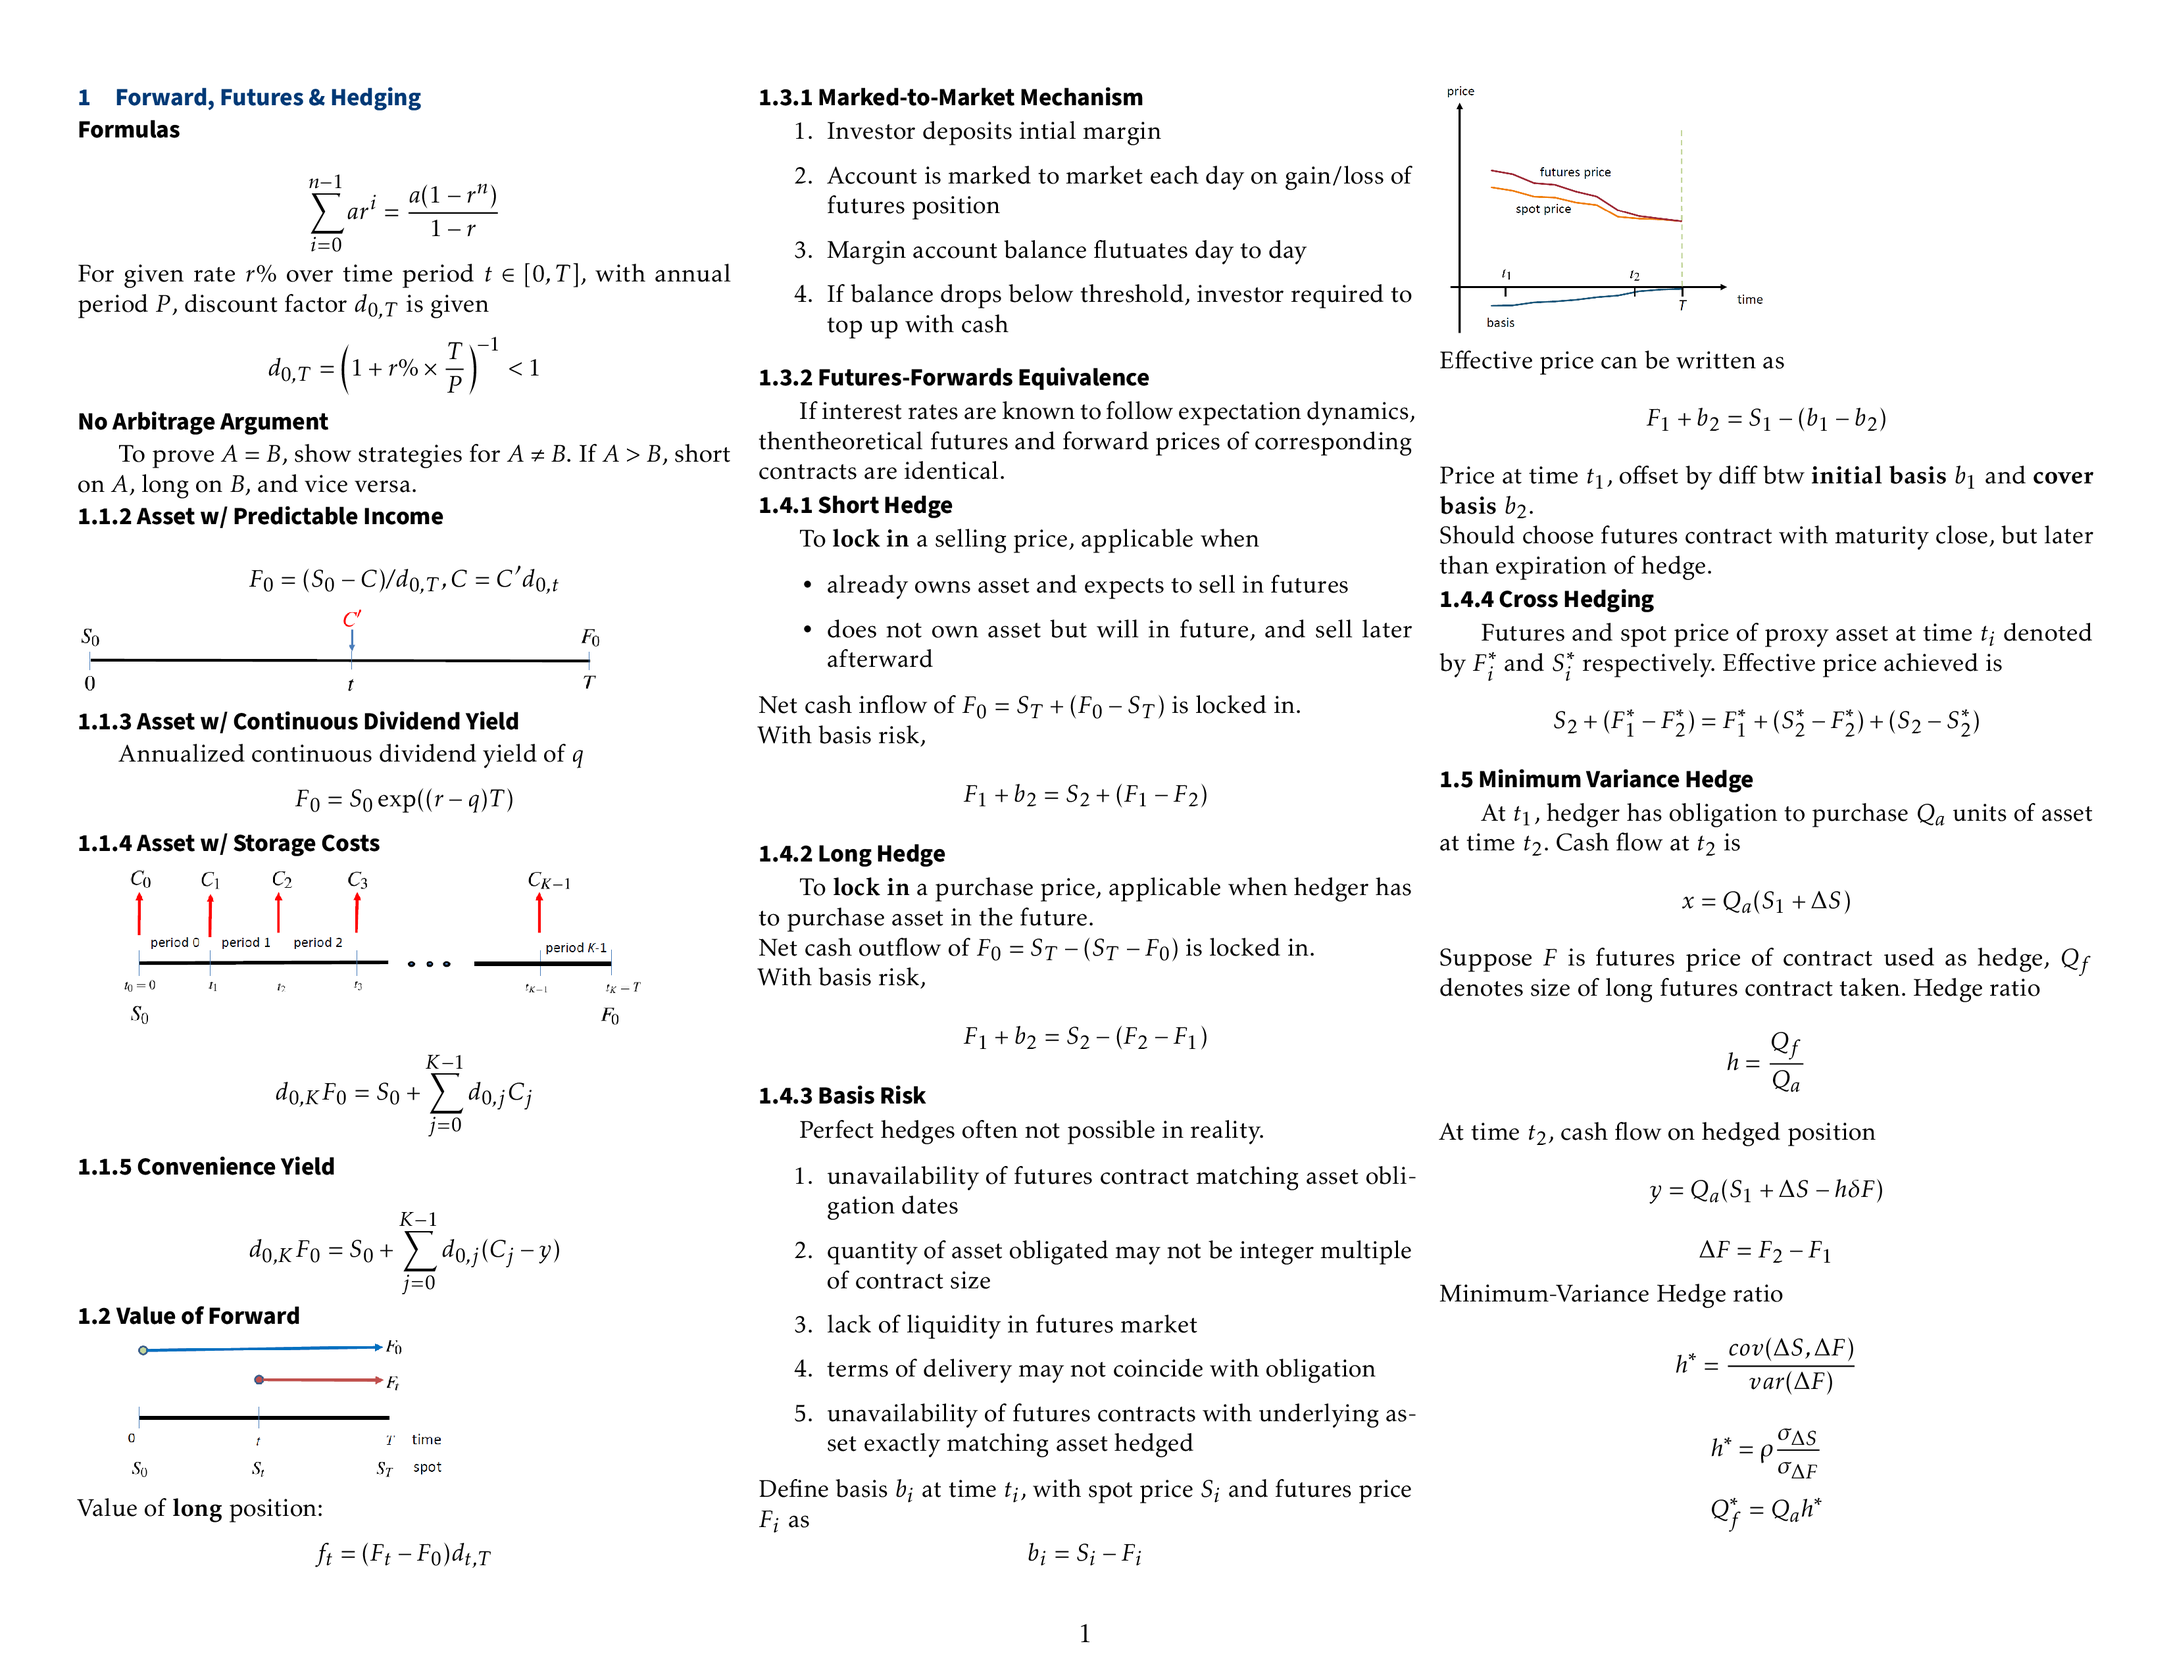
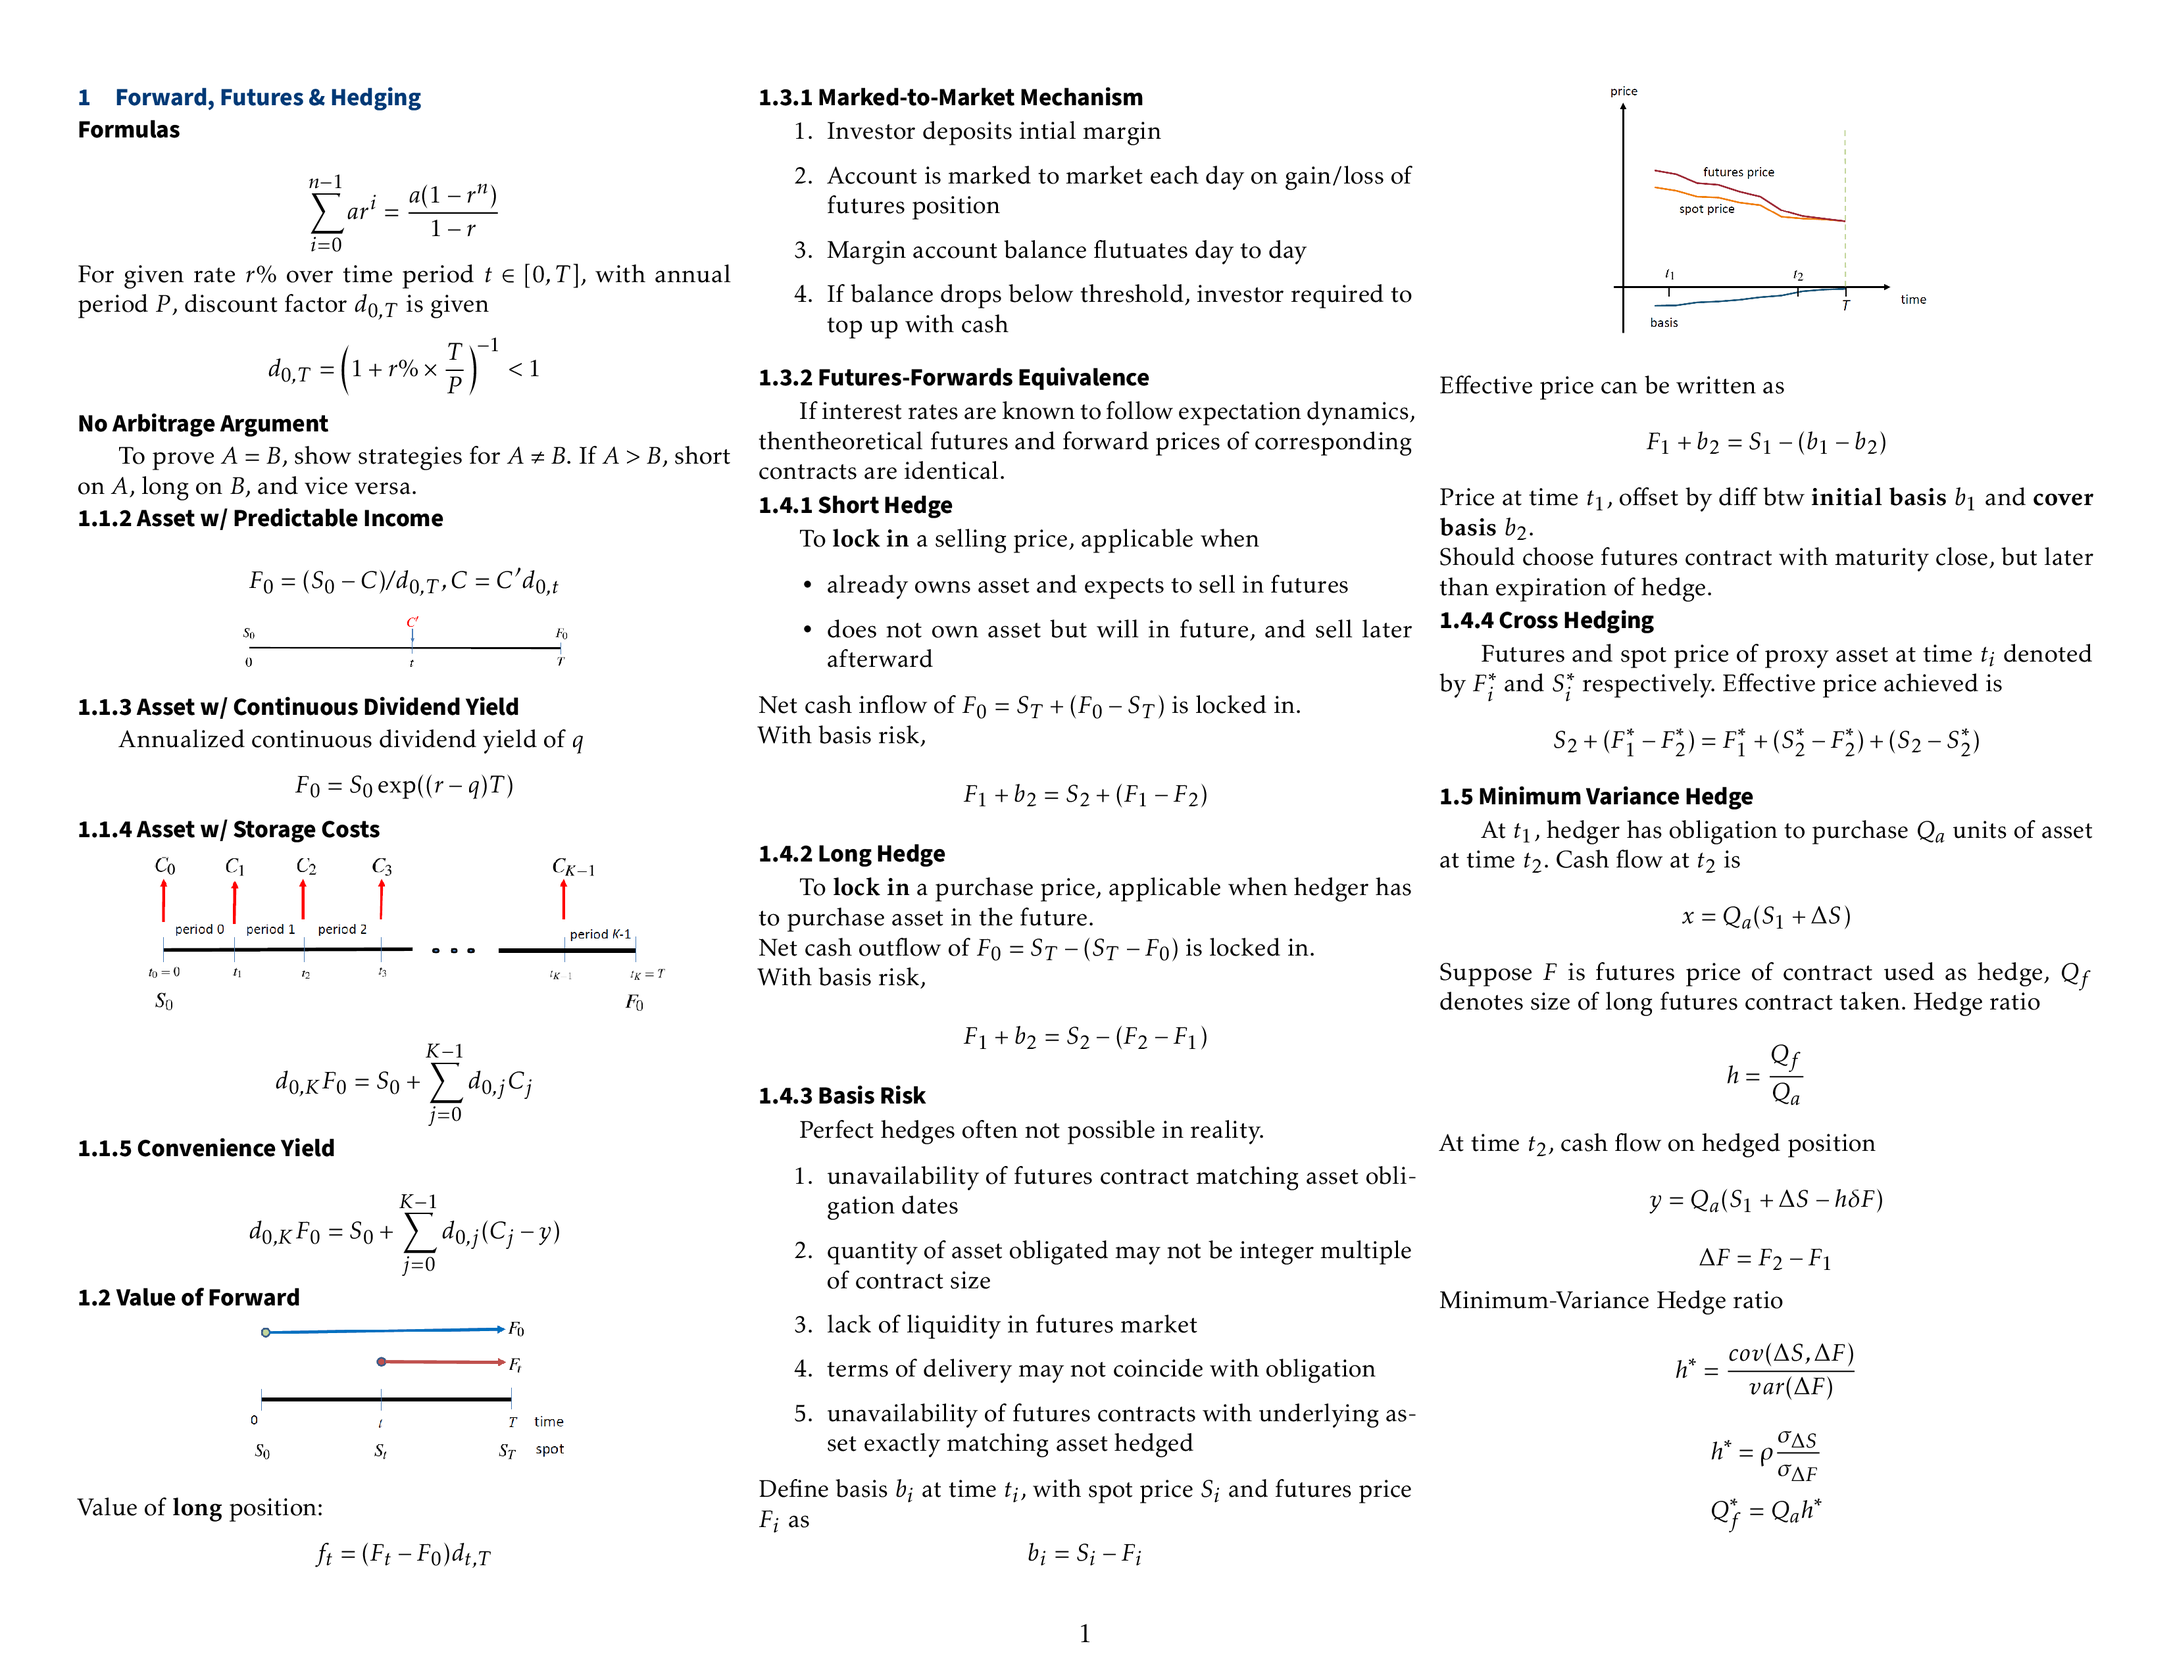
Centralize images

diff --git a/contents/1.tex b/contents/1.tex
@@ -10,19 +10,25 @@ To prove $A=B$, show strategies for $A\neq B$.
 If $A>B$, short on $A$, long on $B$, and vice versa.
 \subsection*{1.1.2 Asset w/ Predictable Income}
 \[F_0 = (S_0-C)/d_{0,T}, C = C'd_{0,t}\]
-\includegraphics[width=0.8\linewidth]{contents/1.1.2.png}
+\begin{center}
+\includegraphics[width=0.5\linewidth]{contents/1.1.2.png}
+\end{center}
 \subsection*{1.1.3 Asset w/ Continuous Dividend Yield}
 Annualized continuous dividend yield of $q$
 \[F_0=S_0\exp((r-q)T)\]
 \subsection*{1.1.4 Asset w/ Storage Costs}
+\begin{center}
 \includegraphics[width=0.8\linewidth]{contents/1.1.4.png}
+\end{center}
 \[d_{0,K} F_0 = S_0 + \sum_{j=0}^{K-1}d_{0,j}C_j\]
 \subsection*{1.1.5 Convenience Yield}
 \[d_{0,K} F_0 = S_0 + \sum_{j=0}^{K-1}d_{0,j}(C_j-y)\]
 
 \subsection*{1.2 Value of Forward}
+\begin{center}
 \includegraphics[width=0.5\linewidth]{contents/1.2.png}
-\\Value of \textbf{long} position:
+\end{center}
+Value of \textbf{long} position:
 \[f_t = (F_t-F_0)d_{t,T}\]
 
 \subsection*{1.3.1 Marked-to-Market Mechanism}
@@ -70,8 +76,10 @@ Perfect hedges often not possible in reality.
 Define basis $b_i$ at time $t_i$, 
 with spot price $S_i$ and futures price $F_i$ as
 \[b_i=S_i-F_i\]
+\begin{center}
 \includegraphics[width=0.5\linewidth]{contents/1.4.3.png}
-\\Effective price can be written as
+\end{center}
+Effective price can be written as
 \[F_1 + b_2 = S_1 - (b_1 - b_2)\]
 Price at time $t_1$, offset by diff btw 
 \textbf{initial basis} $b_1$ and \textbf{cover basis} $b_2$.\\

diff --git a/contents/2.tex b/contents/2.tex
@@ -17,8 +17,10 @@
     \[\left(\frac{t}{2y}-0.25\right)i^2 + \frac{t}{y}i + \frac{P-100}{P}=0\]
 \end{enumerate}
 \subsection*{2.1.2 Accrued Interest}
-\includegraphics[width=0.5\linewidth]{contents/2.1.2.png}
-\\Bond price a.k.a. \textbf{full, dirty, or invoice price}
+\begin{center}
+\includegraphics[width=0.3\linewidth]{contents/2.1.2.png}
+\end{center}
+Bond price a.k.a. \textbf{full, dirty, or invoice price}
 \[P = \frac{F}{\left(1+\frac{r}{m}\right)^{w+n-1}}
 +\sum_{i=0}^{n-1}\frac{C}{\left(1+\frac{r}{m}\right)^{w+i}}\]
 Quoted prices a.k.a. \textbf{clean or flat price} 
@@ -35,7 +37,9 @@ does not include accrued interest.
     \item Rate involved is \textbf{repo rate}.
     \item \textbf{Simple interest} rates. actual/360 in US.
 \end{itemize}
+\begin{center}
 \includegraphics[width=0.5\linewidth]{contents/2.2.1.png}
+\end{center}
 \begin{enumerate}
     \item At time $t=0$, trader finances purchase of security worth $S_0$.
     \item Enter $T$-day repo with Mr. Y.
@@ -85,4 +89,6 @@ Changes to margin account
     \item 3-months: Decrease in futures price by 0.01 (rate rise by 1 bp)
     results in long position being decreased by \$25.
 \end{itemize}
+\begin{center}
 \includegraphics[width=0.8\linewidth]{contents/2.2.3.png}
+\end{center}
